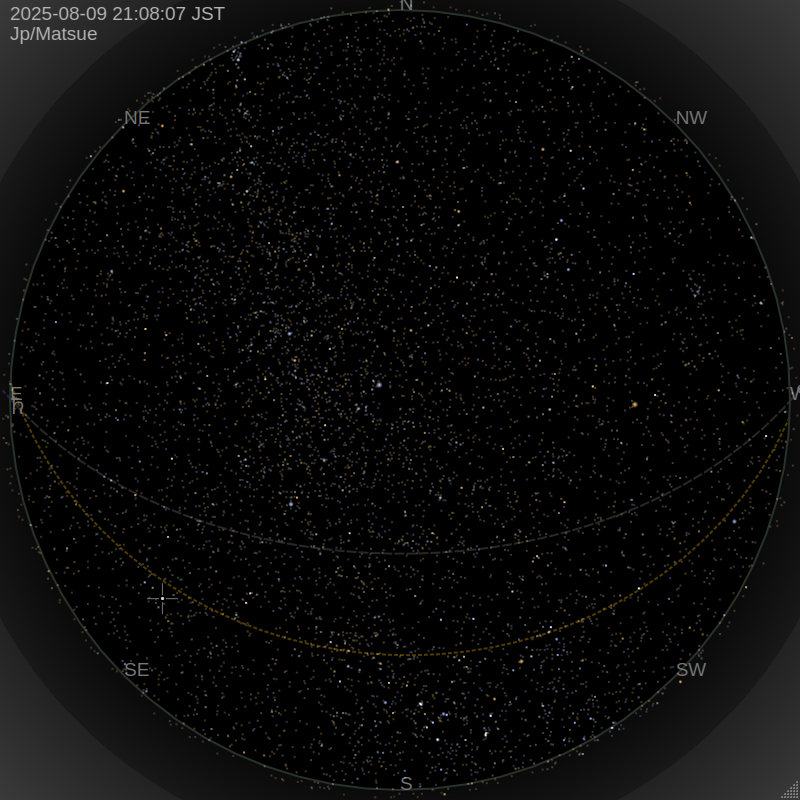
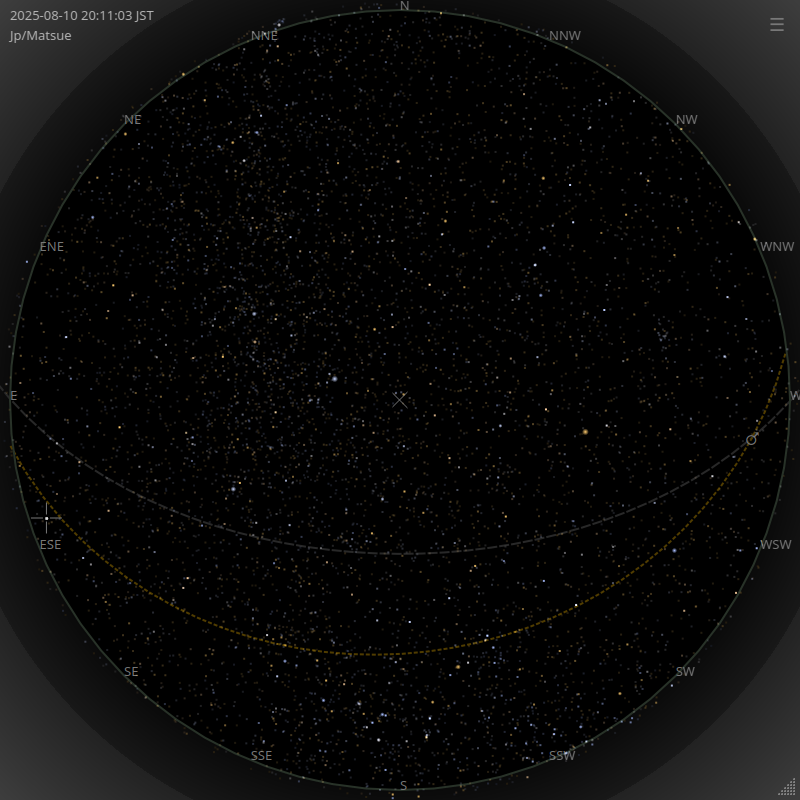
docs: update screenshots

diff --git a/README_ja-JP.md b/README_ja-JP.md
@@ -55,9 +55,9 @@ zstarview [options] [city]
 
 **等級の上限に関するオプションについて**
 
-`-V 等級` で指定した等級までの明るさの星を描画します。デフォルトは `-V 7.0` です。例えば、8.0等級を指定すると、約4万1千個の星が描画されます。この値が大きいと処理が重くなります。
+`-V 等級` で指定した等級までの明るさの星を描画します。デフォルトは `-V 7.0` です。例えば、9.0等級を指定すると、約8万3千個の星が描画されます。この値が大きいと処理が重くなります。
 
-→ [8.0等級](docs/images/screenshot3.png) まで表示
+→ [9.0等級](docs/images/screenshot3.png) まで表示
 
 ### キー操作
 

diff --git a/README.md b/README.md
@@ -58,10 +58,10 @@ Azimuth can be given in degrees or compass points (case-insensitive). Examples: 
 **About magnitude threshold**
 
 Use `-V magnitude` to limit the displayed stars to those brighter than the given magnitude.
-The default is `-V 7.0`. For example, specifying 8.0 will display about 41k stars.
+The default is `-V 7.0`. For example, specifying 9.0 will display about 83k stars.
 Note that higher values will increase rendering time.
 
-→ Example: display up to [magnitude 8.0](docs/images/screenshot3.png)
+→ Example: display up to [magnitude 9.0](docs/images/screenshot3.png).
 
 ### Key Operations
 
